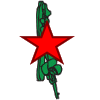
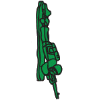
Rapihin kode, gambar prajurit tiarap, warna grup universal

diff --git a/CommandCenter/CommandCenter/View/MapDrawer.cs b/CommandCenter/CommandCenter/View/MapDrawer.cs
@@ -132,15 +132,7 @@ namespace CommandCenter.View
             TextBlock textBlock = new TextBlock();
             textBlock.Text = prajurit.nomerUrut + "";
             textBlock.Tag = prajurit.nomerUrut;
-            /*Check Team A OR B*/
-            if (prajurit.group.Equals("A"))
-            {
-                textBlock.Background = new SolidColorBrush(Colors.Orange);
-            }
-            else
-            {
-                textBlock.Background = new SolidColorBrush(Colors.Aqua);
-            }
+            textBlock.Background = new SolidColorBrush(convertCharToColor(prajurit.group[0]));
             textBlock.Width = 30;
             textBlock.FontSize = 20;
             /*Position TextBlock*/
@@ -167,35 +159,35 @@ namespace CommandCenter.View
 
         public ControlTemplate setTemplateStatePosture(Prajurit prajurit) {
             ControlTemplate ct = new ControlTemplate();
-            if (prajurit.state+""=="NORMAL" && prajurit.posture+""=="STAND")
+            if (prajurit.state == Prajurit.State.NORMAL && prajurit.posture == Prajurit.Posture.STAND)
             {
                 ct = (ControlTemplate)Application.Current.Resources["pushpinStand"];
             }
-            else if (prajurit.state+""=="NORMAL" && prajurit.posture+""=="CRAWL")
+            else if (prajurit.state == Prajurit.State.NORMAL && prajurit.posture == Prajurit.Posture.CRAWL)
             {
                 ct = (ControlTemplate)Application.Current.Resources["pushpinCrawl"];
             }
-            else if (prajurit.state+""==("SHOOT") && prajurit.posture+""==("STAND"))
+            else if (prajurit.state == Prajurit.State.SHOOT && prajurit.posture == Prajurit.Posture.STAND)
             {
                 ct = (ControlTemplate)Application.Current.Resources["pushpinStandShoot"];
             }
-            else if (prajurit.state+""==("SHOOT") && prajurit.posture+""==("CRAWL"))
+            else if (prajurit.state == Prajurit.State.SHOOT && prajurit.posture == Prajurit.Posture.CRAWL)
             {
                 ct = (ControlTemplate)Application.Current.Resources["pushpinCrawlShoot"];
             }
-            else if (prajurit.state+""==("HIT") && prajurit.posture+""==("STAND"))
+            else if (prajurit.state == Prajurit.State.HIT && prajurit.posture == Prajurit.Posture.STAND)
             {
                 ct = (ControlTemplate)Application.Current.Resources["pushpinStandHit"];
             }
-            else if (prajurit.state+""==("HIT") && prajurit.posture+""==("CRAWL"))
+            else if (prajurit.state == Prajurit.State.HIT && prajurit.posture == Prajurit.Posture.CRAWL)
             {
                 ct = (ControlTemplate)Application.Current.Resources["pushpinCrawlHit"];
             }
-            else if (prajurit.state+""==("DEAD") && prajurit.posture+""==("STAND"))
+            else if (prajurit.state == Prajurit.State.DEAD && prajurit.posture == Prajurit.Posture.STAND)
             {
                 ct = (ControlTemplate)Application.Current.Resources["pushpinStandDead"];
             }
-            else if (prajurit.state+""==("DEAD") && prajurit.posture+""==("CRAWL"))
+            else if (prajurit.state == Prajurit.State.DEAD && prajurit.posture == Prajurit.Posture.CRAWL)
             {
                 ct = (ControlTemplate)Application.Current.Resources["pushpinCrawlDead"];
             }
@@ -221,6 +213,12 @@ namespace CommandCenter.View
         public void clearMap()
         {
             map.Children.Clear();
+        }
+
+        private Color convertCharToColor(char c)
+        {
+            int c2 = (int)c % 8;
+            return Color.FromRgb((byte)(127 + (c2 / 4) * 128), (byte)(127 + ((c2 / 2) % 2) * 128), (byte)(127 + (c2 % 2) * 128));
         }
     }
 }

diff --git a/CommandCenter/CommandCenter/Model/Prajurit.cs b/CommandCenter/CommandCenter/Model/Prajurit.cs
@@ -26,7 +26,7 @@ namespace CommandCenter.Model
         public Senjata senjata { get; set; }
         public State state { get; set; }
         public Posture posture { get; set; }
-        public int accuracy { get; set; } //sementara
+        public int accuracy { get; set; }
 
         public Pushpin assignedPushPin = null;
 
